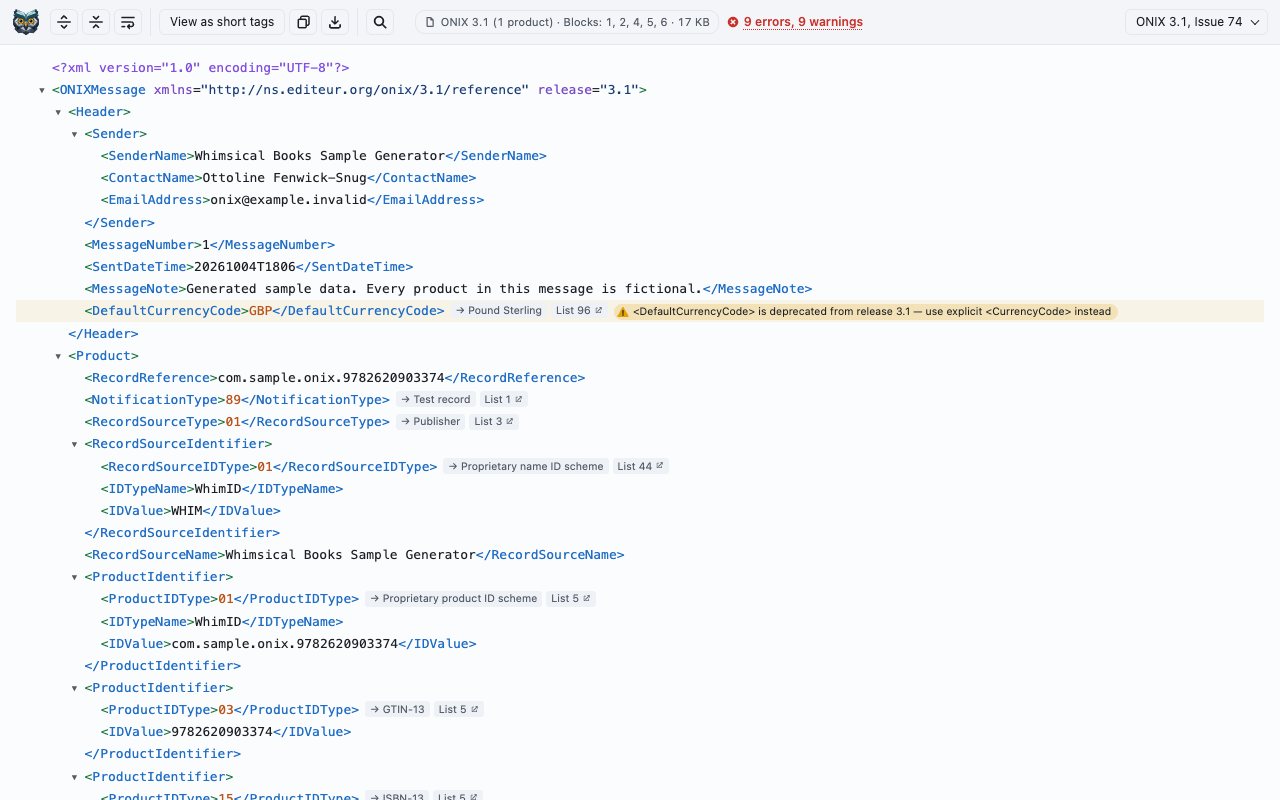
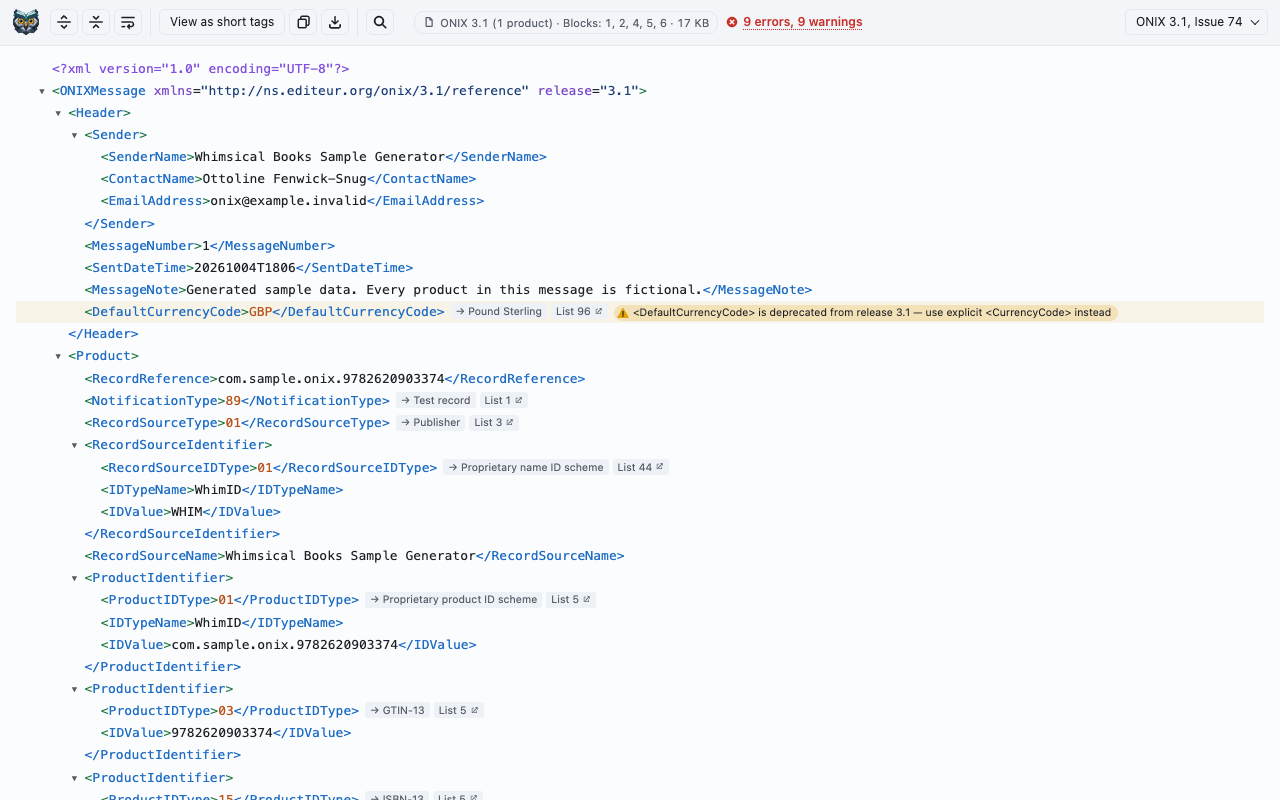
Chrome and Firefox screenshots of 0.9.21, with their fingerprints

diff --git a/site/index.html b/site/index.html
@@ -94,7 +94,7 @@
   </p>
 
   <figure>
-    <img src="Main.png?v=21a66a98" alt="An ONIX message rendered as a folded tree, with code-list labels beside each value" width="1280" height="800">
+    <img src="Main.png?v=754e6820" alt="An ONIX message rendered as a folded tree, with code-list labels beside each value" width="1280" height="800">
     <figcaption>A product record: code-list labels beside each value, and findings pinned to the rows they concern.</figcaption>
   </figure>
 
